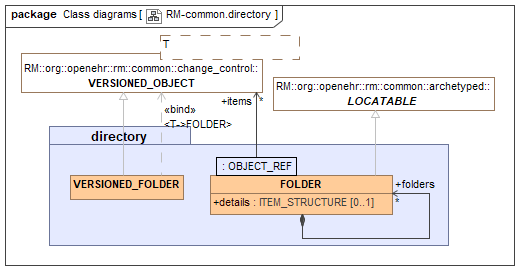
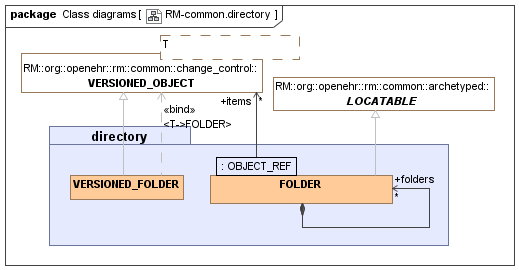
Remove FOLDER.details, erroneously added in during a UML regeneration.

diff --git a/docs/common.html b/docs/common.html
@@ -2584,13 +2584,6 @@ terminology (Terminology_id_openehr).has_code_for_group_id (Group_id_participati
 </div></div></td>
 </tr>
 <tr>
-<th class="tableblock halign-center valign-top"><p class="tableblock"><strong>0..1</strong></p></th>
-<td class="tableblock halign-left valign-top"><p class="tableblock"><strong>details</strong>: <code>ITEM_STRUCTURE</code></p></td>
-<td class="tableblock halign-left valign-top"><div><div class="paragraph">
-<p>Archetypable extra meta-data for <code>FOLDER</code>.</p>
-</div></div></td>
-</tr>
-<tr>
 <th class="tableblock halign-center valign-top"><p class="tableblock"><strong>Invariants</strong></p></th>
 <td class="tableblock halign-left valign-top" colspan="2"><div><div class="paragraph">
 <p><strong><em>Folders_valid</em></strong>: <code>not folders.is_empty</code></p>
